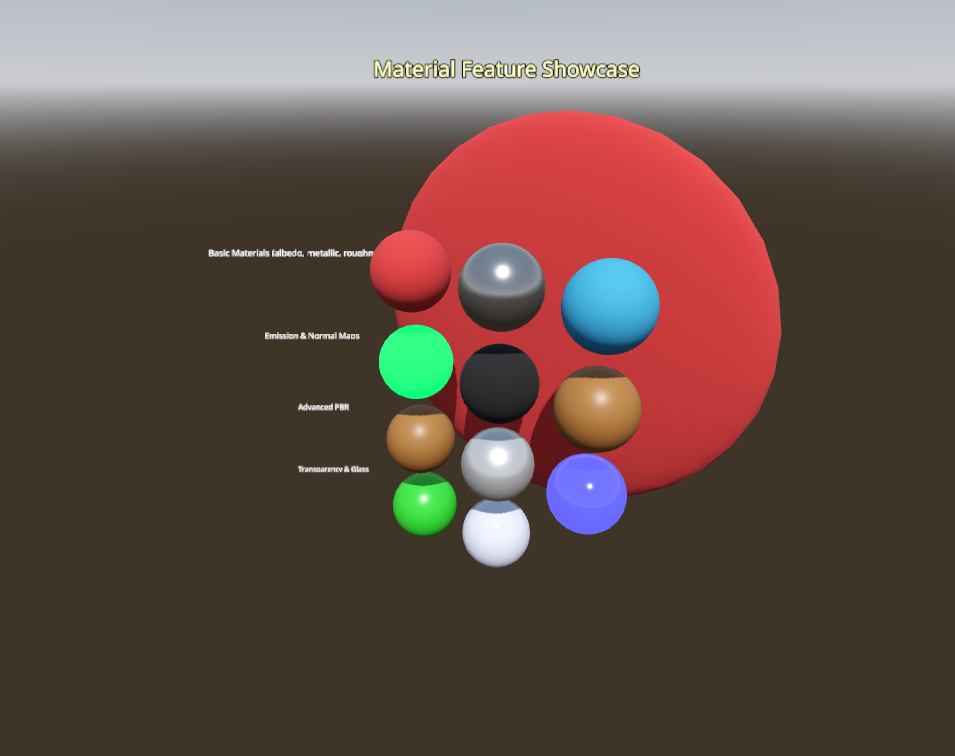
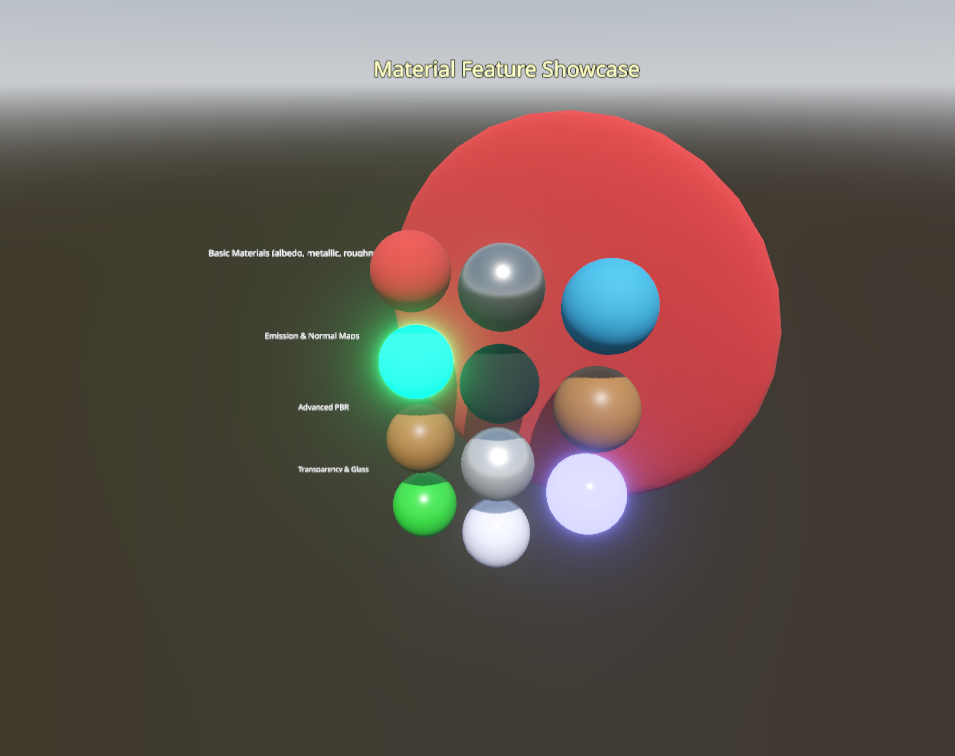
docs(compare): the material showcase now blooms and matches Godot's emission
Re-capture the showcase with glow + the emission fix: the emission-row sphere
blooms cyan-green, the glass sphere blooms lavender, and the emission colours read
Godot's cyan-white rather than an over-saturated blue. The sheet's divergences drop
from 'the known glow/bloom + tonemap gap' to just the coarser single-pass additive
bloom (vs Godot's SOFTLIGHT) and the unapplied glow_blend_mode.

Changed region(s): [[0.334, 0.3347, 0.7288, 0.8214], [0.3948, 0.0913, 0.6681, 0.1217]]

diff --git a/docs/comparison/index.html b/docs/comparison/index.html
@@ -983,8 +983,8 @@ tr:last-child td{border-bottom:0}
 <h3>What it exercises</h3>
 <ul><li>Label3D captions: the "Material Feature Showcase" title plus the four row labels (Basic Materials (albedo, metallic, roughness), Emission &amp; Normal Maps, Advanced PBR, Transparency &amp; Glass) — both frames draw every one.</li><li>StandardMaterial3D albedo: the flat red, cyan and copper/brown spheres.</li><li>Metallic + roughness: the chrome-grey sphere with its tight specular highlight, and the polished browns of the Advanced PBR row.</li><li>Emission: the bright turquoise/green spheres that light up against the dark ground.</li><li>Transparency / glass: the frosted white sphere and the pale translucent sphere in the bottom row.</li><li>A large emissive red backdrop sphere filling the upper right.</li><li>The scene's own Camera3D framing the whole stand of spheres against the grey-sky-over-brown-ground preview environment — both images render THROUGH that authored camera (Godot adopts it; the previewer activates it via the <code>?camera=</code> deep-link), so the framing matches by construction rather than from two independent fit-to-bounds passes.</li></ul>
 <h3>Divergences</h3>
-<p>The two frames agree on framing and on the plain PBR spheres: both render through the same authored Camera3D, so the layout, zoom and every Label3D caption line up, and the red, cyan, chrome-grey (with matching specular) and copper/brown spheres read the same in both.</p>
-<p>What is left is glow and tone mapping. Godot's editor environment blooms the bright emissive materials and filmic-tonemaps the frame — the turquoise and green spheres throw coloured halos, the pale glass sphere glows lavender-magenta, and the title picks up a warm cream haze. The previewer applies the emission energy multiplier and the glass sphere's 0.3 opacity correctly, but runs no glow post-process or filmic tonemap, so those cores render flat and hard-edged: the bloom that lightens and cools Godot's emissive cores is gone, so the emission-row sphere that tonemaps toward turquoise there stays a flatter saturated green in ours with no halo, the glass sphere reads a more opaque periwinkle (its smooth surface reflecting the blue sky rather than blooming to lavender), and the title is a plainer yellow. This is the known glow/bloom + tonemap gap, not a materials difference.</p></div>
+<p>The two frames now agree closely. Both render through the same authored Camera3D, so the layout, zoom and every Label3D caption line up; the plain PBR spheres — red, chrome-grey with its matching specular, copper/brown — read the same; and the bright emissive materials bloom on both sides. Godot's editor environment runs a glow pass, and the previewer reproduces it (an HDR bloom driven by the environment's <code>glow_*</code> values): the emission-row sphere throws its cyan-green halo, the pale glass sphere glows lavender, and the emission cores tonemap toward a bright cyan-white wash rather than staying flat and saturated. The emission colour matches too — emission is now sRGB→linear converted exactly once, so the emissive sphere reads Godot's cyan-white instead of an over-saturated blue.</p>
+<p>What remains is minor: our single-pass additive bloom spreads a little brighter and wider than Godot's default SOFTLIGHT glow, so the halos are a touch stronger, and the <code>glow_blend_mode</code> is not yet applied. The spheres, their colours, and the bloom pattern all match.</p></div>
     </article>
     <article class="sheet" data-type="MeshInstance3D" hidden>
       <header class="sheet-head">

diff --git a/docs/comparison/sheets/complex-materials.md b/docs/comparison/sheets/complex-materials.md
@@ -34,19 +34,18 @@ spheres, each row named by a Label3D caption. Both images are the same whole sce
 
 ## Divergences
 
-The two frames agree on framing and on the plain PBR spheres: both render through the
-same authored Camera3D, so the layout, zoom and every Label3D caption line up, and the
-red, cyan, chrome-grey (with matching specular) and copper/brown spheres read the same
-in both.
+The two frames now agree closely. Both render through the same authored Camera3D, so
+the layout, zoom and every Label3D caption line up; the plain PBR spheres — red,
+chrome-grey with its matching specular, copper/brown — read the same; and the bright
+emissive materials bloom on both sides. Godot's editor environment runs a glow pass,
+and the previewer reproduces it (an HDR bloom driven by the environment's `glow_*`
+values): the emission-row sphere throws its cyan-green halo, the pale glass sphere
+glows lavender, and the emission cores tonemap toward a bright cyan-white wash rather
+than staying flat and saturated. The emission colour matches too — emission is now
+sRGB→linear converted exactly once, so the emissive sphere reads Godot's cyan-white
+instead of an over-saturated blue.
 
-What is left is glow and tone mapping. Godot's editor environment blooms the bright
-emissive materials and filmic-tonemaps the frame — the turquoise and green spheres
-throw coloured halos, the pale glass sphere glows lavender-magenta, and the title
-picks up a warm cream haze. The previewer applies the emission energy multiplier and
-the glass sphere's 0.3 opacity correctly, but runs no glow post-process or filmic
-tonemap, so those cores render flat and hard-edged: the bloom that lightens and cools
-Godot's emissive cores is gone, so the emission-row sphere that tonemaps toward
-turquoise there stays a flatter saturated green in ours with no halo, the glass sphere
-reads a more opaque periwinkle (its smooth surface reflecting the blue sky rather than
-blooming to lavender), and the title is a plainer yellow. This is the known glow/bloom
-+ tonemap gap, not a materials difference.
+What remains is minor: our single-pass additive bloom spreads a little brighter and
+wider than Godot's default SOFTLIGHT glow, so the halos are a touch stronger, and the
+`glow_blend_mode` is not yet applied. The spheres, their colours, and the bloom
+pattern all match.
